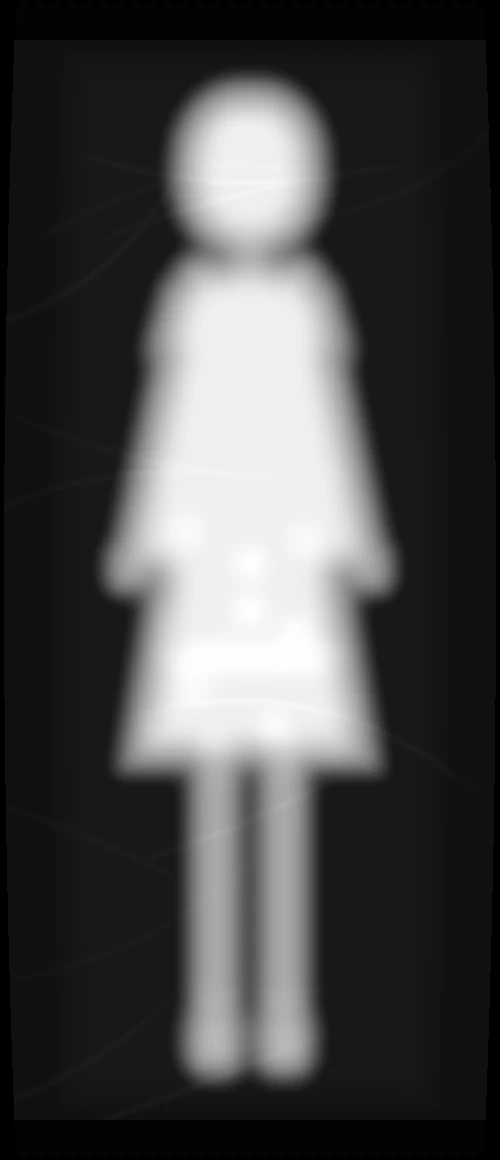
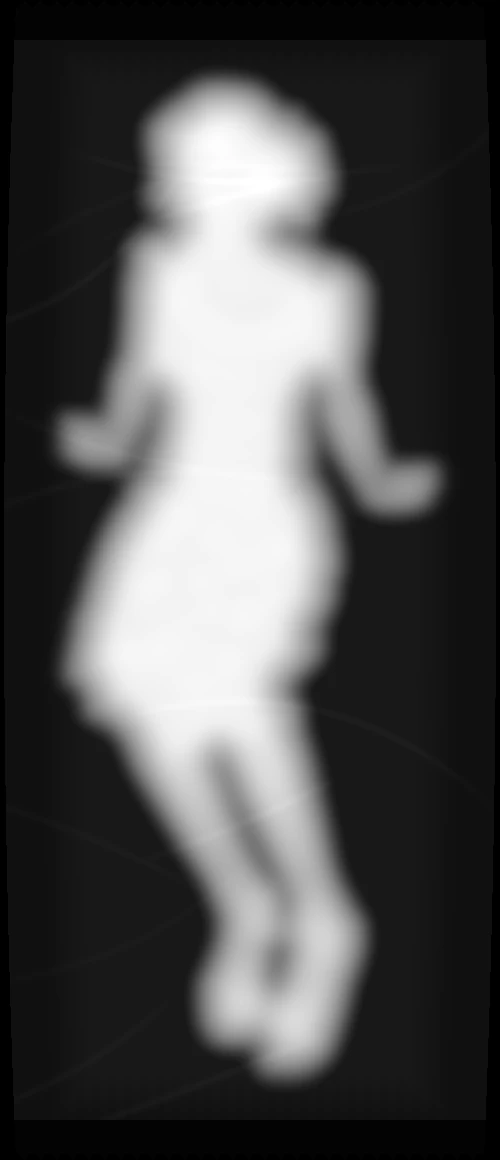
feat: the owner's figurine, cut cleanly from its generated picture
The owner's pick replaces the stand-in. A generated studio picture has a
backdrop that is not one flat grey: its light falls off across it and the
figure casts shadows on it, and some of the figure (pale sandals, clear
glasses) is as grey as the backdrop. So the figurine's cutout now:

- keys out every shade of the backdrop's grey (shade_distance), from its
  contact shadows to its brightest light, at a tolerance that fits it;
- drops specks the backdrop's noise leaves (without_specks), which had
  widened the crop and shrunk the figure to half its length;
- holds the key to u2net's outline of the figure when --u2net is given
  (held_by_shape), so grey parts of the figure stay;
- unmixes each edge against the backdrop beside it (background_beside),
  so an edge against a shadow keeps the figure's own colour.

The food's cutout is unchanged (its defaults are). Body pictures now total
0.17 MB, inside the 0.25 MB budget.

Changed region(s): [[0.09, 0.0621, 0.9, 0.9621]]

diff --git a/tests/unit/rigid-assets.test.js b/tests/unit/rigid-assets.test.js
@@ -6,8 +6,8 @@ import { webpSize } from './webp.js';
 
 // spec §1 Budget (the garments keep their own 3 MB test): the measured total
 // after Task 10, rounded up to the next 0.25 MB, and no more than 1.5 MB.
-// Measured 0.13 MB with the stand-in figure: measure again when the owner's
-// figurine replaces it (if the files come out larger, lower the WebP quality).
+// Measured 0.17 MB with the owner's figurine (if new pictures come out larger
+// than the budget, lower the WebP quality).
 const BODY_BUDGET = 0.25 * 2 ** 20;
 
 test('the food in the box is the size and height prepare_food.py drew it', async () => {

diff --git a/tools/solids/cutout.py b/tools/solids/cutout.py
@@ -18,7 +18,17 @@ def border_colour(rgb: np.ndarray) -> np.ndarray:
     return np.median(border, axis=0)
 
 
-def key_matte(rgb: np.ndarray, background=None, tolerance: float = 28.0, softness: float = 10.0) -> np.ndarray:
+def shade_distance(rgb: np.ndarray, background, shades: tuple[float, float] = (1.0, 1.0)) -> np.ndarray:
+    """Each pixel's colour distance to the nearest shade `s × background`, s within `shades` (darkest, lightest)."""
+    rgb = np.asarray(rgb, float)[..., :3]
+    bg = np.asarray(background, float)
+    s = np.clip(rgb @ bg / max(bg @ bg, 1e-9), *shades)  # a black background has no shades but itself
+    return np.linalg.norm(rgb - s[..., None] * bg, axis=-1)
+
+
+def key_matte(
+    rgb: np.ndarray, background=None, tolerance: float = 28.0, softness: float = 10.0, shades: tuple[float, float] = (1.0, 1.0)
+) -> np.ndarray:
     """Alpha in [0, 1]: background-coloured pixels connected to the border are cut away.
 
     Pixels within `tolerance` of the background colour and connected to the
@@ -27,10 +37,14 @@ def key_matte(rgb: np.ndarray, background=None, tolerance: float = 28.0, softnes
     up to the distance of the object's own colour beside it (at least
     `softness` levels), so that unmixing leaves no fringe. Background-coloured
     holes inside the object stay.
+
+    `shades` widens the background colour to its shades from darkest to
+    lightest, so that a shadow cast on a grey backdrop, or light falling off
+    across it, is cut away with it. The default is the colour alone.
     """
     rgb = np.asarray(rgb, float)[..., :3]
     bg = border_colour(rgb) if background is None else np.asarray(background, float)
-    dist = np.linalg.norm(rgb - bg, axis=-1)
+    dist = shade_distance(rgb, bg, shades)
     labels, _ = ndimage.label(dist < tolerance)
     edge = np.unique(np.concatenate([labels[0], labels[-1], labels[:, 0], labels[:, -1]]))
     outside = np.isin(labels, edge[edge > 0])
@@ -39,9 +53,20 @@ def key_matte(rgb: np.ndarray, background=None, tolerance: float = 28.0, softnes
     if not inside.any():
         return np.zeros(dist.shape)
     _, (iy, ix) = ndimage.distance_transform_edt(~inside, return_indices=True)
-    full = np.linalg.norm(rgb[iy, ix] - bg, axis=-1)  # the object's own colour beside each pixel
+    full = dist[iy, ix]  # the object's own colour beside each pixel
     ramp = np.clip((dist - tolerance) / np.maximum(full - tolerance, softness), 0.0, 1.0)
     return np.where(outside, 0.0, np.where(band, ramp, 1.0))
+
+
+def without_specks(alpha: np.ndarray, share: float) -> np.ndarray:
+    """The matte without its specks: parts smaller than `share` of the largest part are cleared."""
+    alpha = np.asarray(alpha, float)
+    labels, count = ndimage.label(alpha > 0, structure=np.ones((3, 3)))
+    if count <= 1:
+        return alpha
+    sizes = np.bincount(labels.ravel())[1:]
+    keep = np.concatenate([[False], sizes >= share * sizes.max()])
+    return np.where(keep[labels], alpha, 0.0)
 
 
 def rounded_matte(shape: tuple[int, int], radius: float, inset: float, feather: float = 1.0) -> np.ndarray:
@@ -75,6 +100,33 @@ def u2net_matte(rgb: np.ndarray, model: Path) -> np.ndarray:
     out = (out - out.min()) / max(float(out.max() - out.min()), 1e-6)
     resized = Image.fromarray((out * 255).astype(np.uint8)).resize((w, h), Image.BILINEAR)
     return np.asarray(resized, float) / 255
+
+
+def held_by_shape(alpha: np.ndarray, shape: np.ndarray, inset: int, whole: float = 0.5, faint: float = 0.1) -> np.ndarray:
+    """A key's matte held to the object's shape, as a salient-object model outlines it.
+
+    The model knows what the object is but draws its edge soft; the key draws
+    a crisp edge but cannot tell a grey part of the object from a grey
+    backdrop, nor a dark shadow from a dark part. So: whole wherever the shape
+    is at least `whole` and more than `inset` px from its edge, empty wherever
+    it is fainter than `faint`, and the key's own edge in between.
+    """
+    core = ndimage.binary_erosion(np.asarray(shape) >= whole, iterations=inset)
+    return np.where(core, 1.0, np.where(np.asarray(shape) < faint, 0.0, np.asarray(alpha, float)))
+
+
+def background_beside(rgb: np.ndarray, alpha: np.ndarray) -> np.ndarray:
+    """Each pixel's own background: the colour of the nearest pixel cut away entirely (alpha 0).
+
+    An edge against a cast shadow then unmixes against the shadow, not the
+    clear backdrop. With nothing cut away, the border's colour.
+    """
+    rgb = np.asarray(rgb, float)[..., :3]
+    away = np.asarray(alpha) <= 0
+    if not away.any():
+        return np.broadcast_to(border_colour(rgb), rgb.shape)
+    _, (iy, ix) = ndimage.distance_transform_edt(~away, return_indices=True)
+    return rgb[iy, ix]
 
 
 def unmix(rgb: np.ndarray, alpha: np.ndarray, background) -> np.ndarray:

diff --git a/tools/prepare_figurine.py b/tools/prepare_figurine.py
@@ -25,7 +25,7 @@ from PIL import Image
 
 sys.path.insert(0, str(Path(__file__).resolve().parent))  # run as a script: make `solids` importable
 
-from solids.cutout import border_colour, key_matte, u2net_matte, unmix  # noqa: E402
+from solids.cutout import background_beside, held_by_shape, key_matte, u2net_matte, unmix, without_specks  # noqa: E402
 from solids.finish import add_grain, fit_canvas, match_light  # noqa: E402
 from solids.relief import relief  # noqa: E402
 from solids.wrap import bag  # noqa: E402
@@ -41,15 +41,22 @@ MARGIN = (8, 16)  # units between the figure and the bag's sides, and its ends (
 RELIEF_RADIUS = 12  # units: the figure's dome reaches full height this far in
 RELIEF_DETAIL = 0.15
 PLAIN = 12.0  # a border whose colour varies more than this (std) is not plain: use u2net
+SHADES = (0.3, 1.1)  # the backdrop's grey from its contact shadows (this share of it) to where its light is brightest
+TOLERANCE = 14.0  # colour distance from those shades still counted as backdrop (a generated backdrop keeps within ~7)
+SPECK = 0.002  # parts of the matte smaller than this share of the figure are noise in the backdrop
+INSET = 4  # px: within this of u2net's soft outline, the key draws the edge
 EDGE = 0.02  # alpha below this is empty when cropping
 TURNS = {"0": 0, "90": 1, "-90": -1, "180": 2}  # quarter turns counter-clockwise (np.rot90)
 
 
 def matte(rgb: np.ndarray, u2net: Path | None) -> np.ndarray:
-    """Alpha in [0, 1]: a colour key on a plain border, else the u2net model."""
+    """Alpha in [0, 1]: on a plain border, a colour key that takes the backdrop's shadows with it, held
+    to u2net's outline of the figure when the model is given (so grey sandals and clear glasses stay);
+    on any other border, the u2net model alone."""
     border = np.concatenate([rgb[0], rgb[-1], rgb[:, 0], rgb[:, -1]])
     if border.std(axis=0).max() <= PLAIN:
-        return key_matte(rgb)
+        key = without_specks(key_matte(rgb, tolerance=TOLERANCE, shades=SHADES), SPECK)
+        return key if u2net is None else held_by_shape(key, u2net_matte(rgb, u2net), INSET)
     if u2net is None:
         raise SystemExit("the picture's background is not plain: pass --u2net PATH to the u2net model")
     return u2net_matte(rgb, u2net)
@@ -65,7 +72,7 @@ def cut_out(source: Path, u2net: Path | None, turn: str) -> np.ndarray:
     """The figure, cut out, unmixed, cropped and stood upright: RGBA float."""
     rgb = np.asarray(Image.open(source).convert("RGB"), float)
     alpha = matte(rgb, u2net)
-    colour = unmix(rgb, alpha, border_colour(rgb))
+    colour = unmix(rgb, alpha, background_beside(rgb, alpha))
     ys, xs = np.nonzero(alpha > EDGE)
     cut = np.concatenate([colour, alpha[..., None] * 255], axis=-1)[ys.min():ys.max() + 1, xs.min():xs.max() + 1]
     return turned(cut, turn)

diff --git a/tools/tests/test_prepare_figurine.py b/tools/tests/test_prepare_figurine.py
@@ -1,8 +1,13 @@
+from pathlib import Path
+
 import numpy as np
 import pytest
 from PIL import Image
+from scipy import ndimage
 
 import prepare_figurine as pf
+
+RED = (180.0, 40.0, 40.0)
 
 
 def figure_png(tmp_path):
@@ -12,6 +17,47 @@ def figure_png(tmp_path):
     path = tmp_path / "chosen.png"
     Image.fromarray(rgb).save(path)
     return path
+
+
+FIGURE = (lambda yy, xx: ((xx - 250) / 120) ** 2 + ((yy - 450) / 380) ** 2 <= 1)(*np.mgrid[0:900, 0:500])
+
+
+def backdrop_png(tmp_path, sole=False):
+    """A figure (x 130–370, y 70–830) on a grey backdrop whose light falls off from left to right,
+    with its shadow cast to the right of it, soft edges and a little noise: as an image model draws it.
+    With `sole`, its lowest 70 px are the backdrop's own grey, like a pale sandal's sole."""
+    yy, xx = np.mgrid[0:900, 0:500]
+    grey = np.array([188.0, 187.0, 190.0]) * np.linspace(1.06, 0.97, 500)[None, :, None]
+    shadow = ((xx - 290) / 120) ** 2 + ((yy - 470) / 380) ** 2 <= 1
+    rgb = np.where(FIGURE[..., None], RED, np.where(shadow[..., None], 0.7 * grey, grey))
+    if sole:
+        rgb = np.where((FIGURE & (yy >= 760))[..., None], grey, rgb)
+    rgb = ndimage.gaussian_filter(rgb, (1, 1, 0)) + np.random.default_rng(1).normal(0, 5, rgb.shape)
+    path = tmp_path / "backdrop.png"
+    Image.fromarray(np.clip(np.round(rgb), 0, 255).astype(np.uint8)).save(path)
+    return path
+
+
+def test_a_cast_shadow_and_a_falling_light_are_cut_away_with_the_backdrop(tmp_path):
+    cut = pf.cut_out(backdrop_png(tmp_path), None, "auto")
+    assert abs(cut.shape[0] - 761) <= 6 and abs(cut.shape[1] - 241) <= 6, f"cropped to {cut.shape[:2]}, the figure is 761 × 241"
+
+
+def test_with_the_model_s_outline_a_part_as_grey_as_the_backdrop_stays(tmp_path, monkeypatch):
+    outline = ndimage.gaussian_filter(FIGURE.astype(float), 4)  # soft, as u2net's is
+    monkeypatch.setattr(pf, "u2net_matte", lambda rgb, model: outline)
+    cut = pf.cut_out(backdrop_png(tmp_path, sole=True), Path("u2netp.onnx"), "auto")
+    assert abs(cut.shape[0] - 761) <= 6 and abs(cut.shape[1] - 241) <= 6, f"cropped to {cut.shape[:2]}, the figure is 761 × 241"
+    assert (cut[-40:-10, 100:140, 3] == 255).all(), "the sole is part of the figure"
+
+
+def test_an_edge_against_the_shadow_keeps_the_figure_s_own_colour(tmp_path):
+    cut = pf.cut_out(backdrop_png(tmp_path), None, "auto")
+    a = cut[..., 3] / 255
+    right = (a > 0.2) & (a < 0.9) & (np.arange(cut.shape[1]) > cut.shape[1] // 2)[None, :]
+    assert right.sum() > 100
+    off = np.abs(cut[..., :3][right] - RED).mean()
+    assert off < 20, f"the edge beside the shadow is {off:.0f} levels off the figure's colour"
 
 
 @pytest.fixture(scope="module")

diff --git a/tools/tests/test_solids.py b/tools/tests/test_solids.py
@@ -1,5 +1,6 @@
 import numpy as np
-from solids.cutout import border_colour, key_matte, rounded_matte, unmix
+from scipy import ndimage
+from solids.cutout import border_colour, held_by_shape, key_matte, rounded_matte, unmix
 from solids.relief import relief
 from solids.finish import add_grain, fit_canvas, remove_marks
 
@@ -45,6 +46,18 @@ def test_fit_canvas_keeps_proportions_and_centres():
     out = fit_canvas(rgba, (80, 80))
     cols = np.nonzero(out[..., 3].max(axis=0))[0]
     assert out.shape[:2] == (80, 80) and cols.min() == 20 and cols.max() == 59
+
+
+def test_the_object_s_shape_holds_the_key_whole_inside_and_clears_it_far_outside():
+    square = np.zeros((60, 60)); square[10:50, 10:50] = 1
+    shape = ndimage.gaussian_filter(square, 2)  # the soft outline a salient-object model gives
+    key = square.copy()
+    key[10:25, 20:30] = 0  # a backdrop-grey part of the object, at its edge, that the key cut away
+    key[10:50, 50:58] = 1  # a shadow beside the object that the key kept
+    held = held_by_shape(key, shape, inset=3)
+    assert held[20, 25] == 1, "the part inside the outline is whole again"
+    assert held[30, 56] == 0, "the shadow outside the outline is gone"
+    assert held[30, 9] == key[30, 9] and held[30, 10] == key[30, 10], "at the outline's edge the key decides"
 
 
 def test_a_tray_filling_its_photo_is_cut_to_a_rounded_rectangle():

diff --git a/README.md b/README.md
@@ -113,29 +113,29 @@ flaps or the table.
 **The figurine.** It is made from your photo with an image model, then
 finished by a tool:
 
-1. Put your OpenRouter key in `F:\parcel-art\.env`, on a line that names it
-   `OPENROUTER_API_KEY`. That folder is outside the repository; the key is
-   never committed, printed or pasted anywhere.
-2. Generate candidates from your photo (a 1600 px copy of it) with the prompt
+1. Generate candidates from your photo (a 1600 px copy of it) with the prompt
    in `docs/superpowers/plans/2026-10-22-figurine-food-books.md`, Task 1: a
-   real hand-painted resin figure of you, lying on its back on light grey,
-   photographed from above. The candidates go to `F:\parcel-art\candidates\`;
-   pick the one that looks most like you.
-3. Make the four pictures from your pick:
+   real hand-painted resin figure of you on light grey, photographed from
+   above. Any image model will do — the Gemini or ChatGPT app, or the
+   OpenRouter tool with a key in `F:\parcel-art\.env` (outside the
+   repository; never committed, printed or pasted anywhere). Save the
+   candidates to `F:\parcel-art\candidates\` and pick the one that looks
+   most like you: tall, the whole figure in frame, at least 1000 px long.
+2. Make the four pictures from your pick:
 
-       python tools/prepare_figurine.py <chosen.png> assets/figurine
+       python tools/prepare_figurine.py <chosen.png> assets/figurine --u2net F:/portrait-collage/models/u2netp.onnx
 
-   It cuts the figure off its plain background (`--u2net PATH` uses the u2net
-   model when the background is not plain), stands it upright
+   It cuts the figure off its plain background, taking the backdrop's
+   shadows and uneven light with it. `--u2net PATH` holds that cut to the
+   u2net model's outline of the figure, so that parts as grey as the backdrop
+   (pale sandals, clear glasses) stay; without it the colour key works alone,
+   and on a background that is not plain the model does. It stands it upright
    (`--turn auto|0|90|-90|180`), sizes it to the figure the clothes were
    fitted to (248 units from head to sole), matches it to the box's light and
    wraps it in a clear pillow bag with crimped seals. It writes
    `figurine.webp`, `figurine-relief.webp` (its height, for the 3D surface),
    `wrap.webp` and `wrap-relief.webp` (the bag), each 500 × 1160 px: the
    figurine's 125 × 290-unit footprint at 4 px a unit.
-
-Until you pick, the figurine is a **stand-in** stamped PLACEHOLDER, made by
-the same tool from a plain drawn figure.
 
 **The food.** It comes from your photos, cut out without brands:
 
@@ -211,7 +211,6 @@ book's `alt` text in `content/site.js` is what screen readers say.
 ### Still needed from you
 
 - [ ] The booklet text in `content/book.md`, the cover title (`bookTitle`) and `ownerName`
-- [ ] Pick your figurine from the candidates and run `tools/prepare_figurine.py` on it (the current one is a stand-in)
 - [ ] Check and reword the figurine's and the food's `alt` descriptions (`figurine.alt`, `food[].alt`)
 - [ ] Artwork: `questionMark` (and optionally `instruction`) — the box, booklet, food, books and desiccant are done
 - [ ] Your handwriting (font or images), if you want it instead of Caveat
@@ -263,4 +262,4 @@ Regenerate the built-in box art, placeholders, textures and sounds with `npm run
 - Cloth simulation: after Matthias Müller's [Ten Minute Physics](https://matthias-research.github.io/pages/) cloth demos, MIT (notice in `js/cloth/hash.js`).
 - Box art, placeholder art, textures and sounds: generated by `tools/generate_placeholders.py`.
 - Clothes, booklet drawings, the desiccant packet and the hand cursors: generated by `tools/generate_clothes.py`, `tools/generate_manual.py`, `tools/generate_props.py` and `tools/generate_cursors.py`.
-- The figurine: generated from the owner's photo with an image model and finished by `tools/prepare_figurine.py` (for now a stand-in). The food: the owner's photos, cut out by `tools/prepare_food.py`. Book covers: drawn by `tools/generate_books.py` in the bundled Noto Sans (SIL OFL).
+- The figurine: generated from the owner's photo with an image model and finished by `tools/prepare_figurine.py`. The food: the owner's photos, cut out by `tools/prepare_food.py`. Book covers: drawn by `tools/generate_books.py` in the bundled Noto Sans (SIL OFL).
